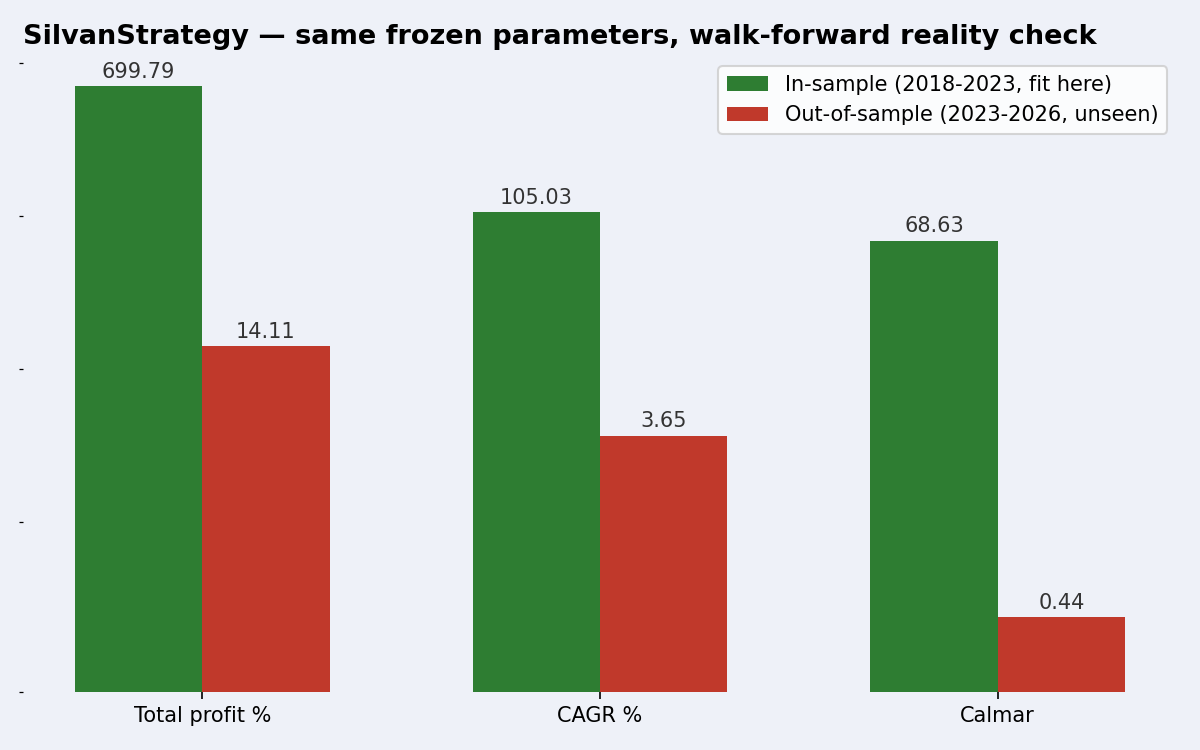
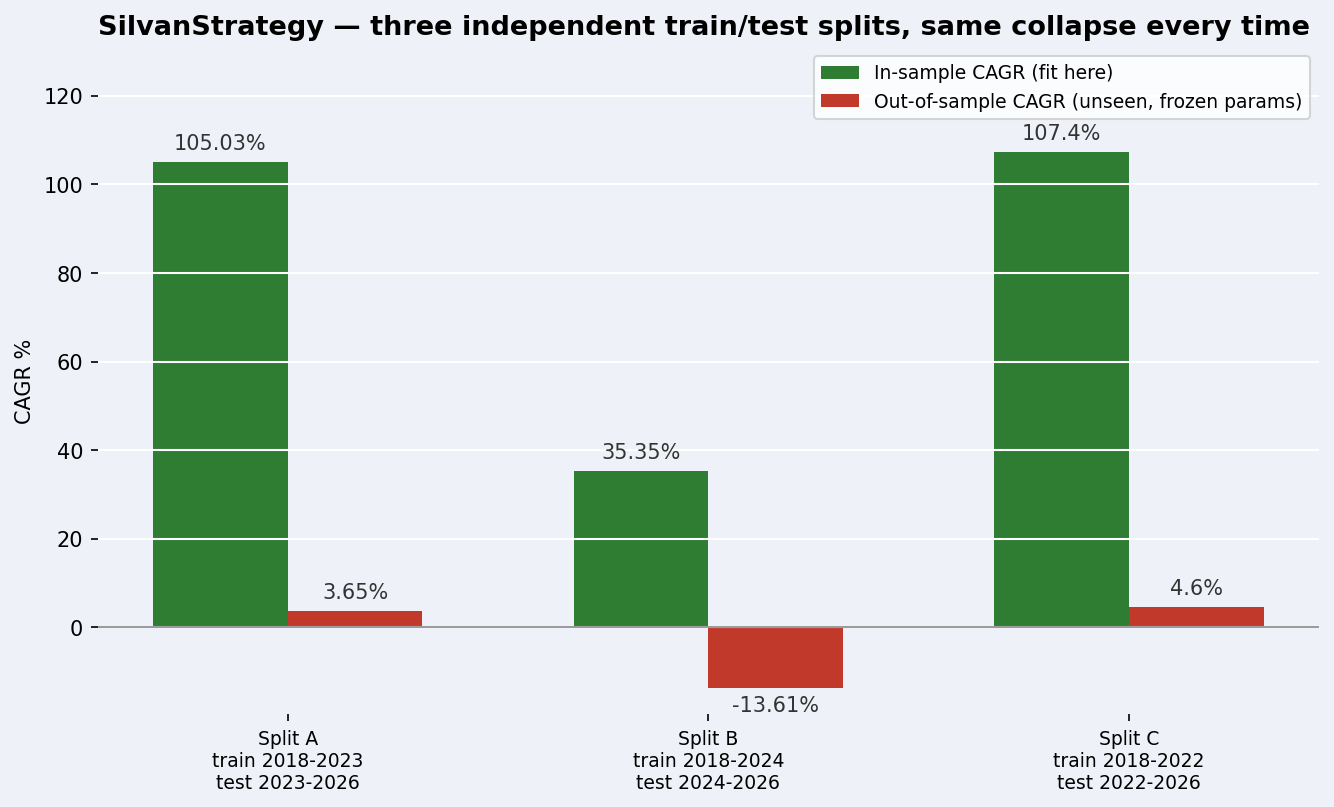
docs: strengthen walk-forward check with 3 independent splits
A single train/test split invites an obvious objection: maybe 2023-2026
just happened to be an unlucky test window, unrelated to overfitting.
Replaced it with three independent, non-overlapping cut points:

  Split A - train 2018-2023, test 2023-2026: CAGR 105.03% -> 3.65%
  Split B - train 2018-2024, test 2024-2026: CAGR 35.35% -> -13.61%
  Split C - train 2018-2022, test 2022-2026: CAGR 107.40% -> 4.60%

Same collapse every time, across three different market regimes in the
test windows, with Split B going outright negative. Chart and README
table updated to show all three side by side.

diff --git a/README.md b/README.md
@@ -151,22 +151,27 @@ alone can produce, without cheating on time.
 
 The headline numbers above (+983%, Calmar 28.16) come from hyperopting on
 the entire 2018-2026 window and reporting the result on that same window —
-sin #2. Here's what happens with an honest split: hyperopt only on
-2018-2023, freeze the parameters, run them unmodified on 2023-2026 (data the
-optimizer never saw).
+sin #2. Here's what happens with an honest split: hyperopt only on the
+training slice, freeze the parameters, run them unmodified on the rest
+(data the optimizer never saw).
+
+A single split invites an obvious objection: maybe the test window just
+happened to be an unlucky period, unrelated to overfitting. So this is
+repeated with three independent, non-overlapping cut points instead of one:
 
 ![Walk-forward reality check](assets/silvan_walkforward.png)
 
-| | In-sample (2018-2023) | Out-of-sample (2023-2026) |
-|---|---|---|
-| Total profit | +699.79% | +14.11% |
-| CAGR | 105.03% | 3.65% |
-| Calmar | 68.63 | 0.44 |
-| Max drawdown | 19.6% | 43.1% |
+| Split | In-sample CAGR | Out-of-sample CAGR | In-sample Calmar | Out-of-sample Calmar |
+|---|---|---|---|---|
+| A — train 2018-2023, test 2023-2026 | 105.03% | 3.65% | 68.63 | 0.44 |
+| B — train 2018-2024, test 2024-2026 | 35.35% | **-13.61%** | 15.91 | **-1.28** |
+| C — train 2018-2022, test 2022-2026 | 107.40% | 4.60% | 77.87 | 0.48 |
 
-Same strategy, same code, same "optimal" parameters — just not re-fit on the
-data being tested. Out of sample, the returns collapse *and* the drawdown
-gets worse, not better. That's the difference between a backtest and a
+Same strategy, same code, same procedure every time — three different cut
+points, three different market regimes in the test windows, and the same
+collapse every single time. One split even loses money outright. This isn't
+one unlucky test window, it's what happens whenever this strategy meets
+data it wasn't fit on. That's the difference between a backtest and a
 strategy.
 
 Reproduce it yourself:
